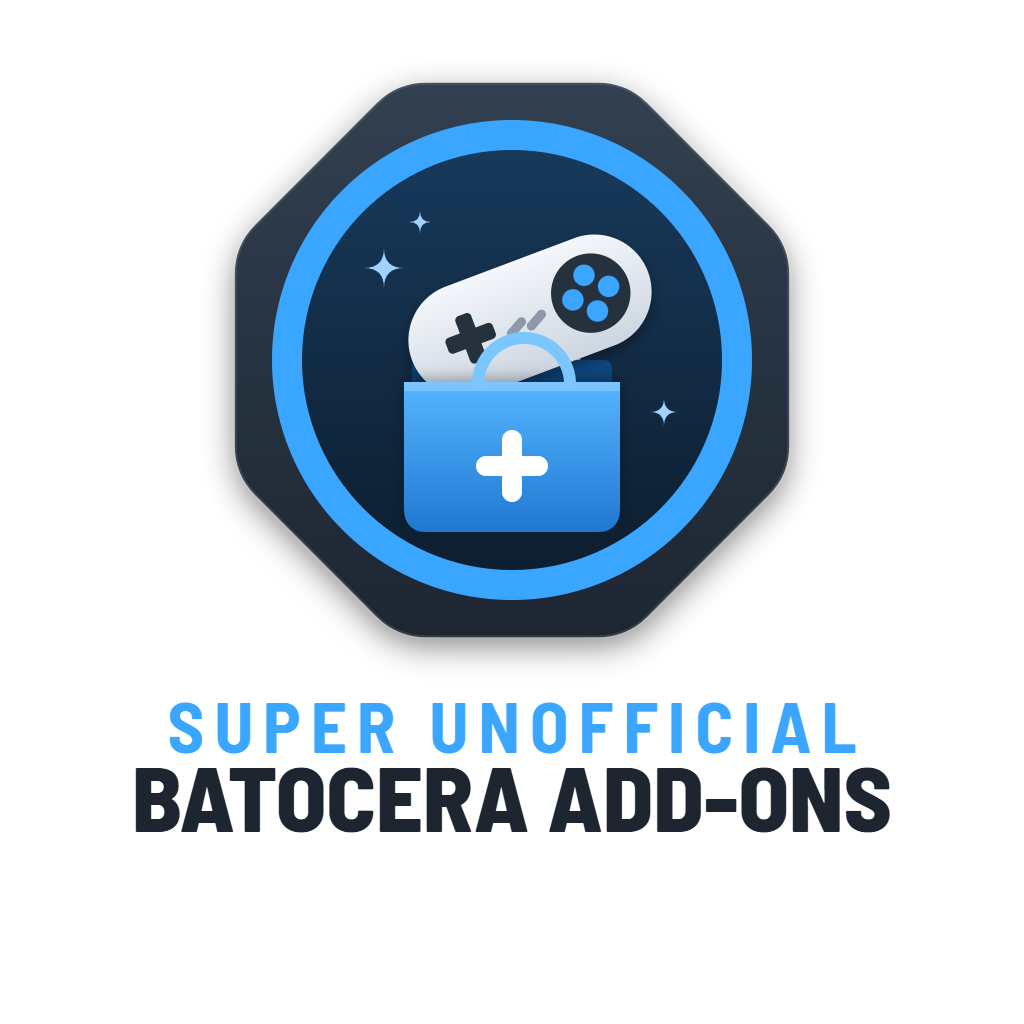
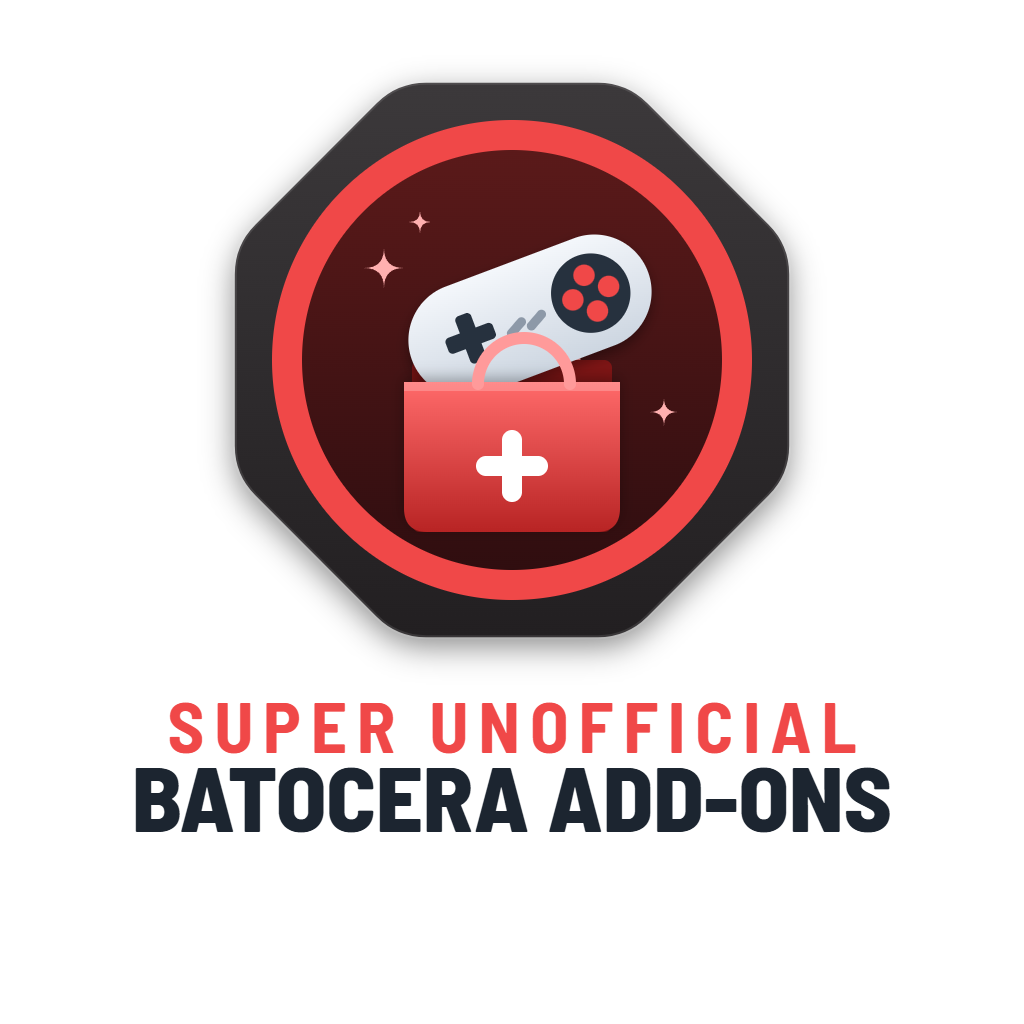
SBUA: red instead of blue
- GUI: the accent and selection colour (outlines, highlighted text, icons,
  search box, progress, the Search key), the "Queued" badge and the
  unselected tile fill are red. The app-initials palette keeps its mix of
  colours.
- Logos: ring, bag, handle, buttons, sparkles and "SUPER UNOFFICIAL" are
  red; the disc is dark red and the plate neutral charcoal.

Changed region(s): [[0.25, 0.0938, 0.75, 0.5938], [0.1562, 0.6875, 0.8438, 0.75]]

diff --git a/app/bua_installerarm64.py b/app/bua_installerarm64.py
@@ -756,10 +756,10 @@ UI_FONTS = load_console_fonts()
 BG = (10, 13, 18)
 CARD = (27, 35, 45)
 CARD_HI = (36, 48, 62)
-ACCENT = (58, 166, 255)
+ACCENT = (240, 72, 72)
 FG = (236, 242, 248)
 MUTED = (139, 152, 166)
-SELECT = (58, 166, 255)
+SELECT = (240, 72, 72)
 SUCCESS = (76, 205, 140)
 FOOTER_BG = (6, 8, 12)
 
@@ -2370,7 +2370,7 @@ def draw_app_details(surf, panel, key: str):
         chip = draw_chip(surf, t("installed"), f["small"], (chip_x, y), (196, 245, 218), (24, 82, 54))
         chip_x = chip.right + S(8)
     if any(k == key for k, _cmd in INSTALL_QUEUE):
-        chip = draw_chip(surf, t("queued"), f["small"], (chip_x, y), (205, 230, 255), (26, 70, 120))
+        chip = draw_chip(surf, t("queued"), f["small"], (chip_x, y), (255, 214, 214), (120, 26, 26))
         chip_x = chip.right + S(8)
     if SELECTED_APPS.get(key, False):
         badge_r = (f["small"].get_height() + S(8)) // 2
@@ -4012,7 +4012,7 @@ class QueueScreen(BaseScreen):
                 selected = i == self.idx
                 if selected:
                     rect = rect.inflate(S(8), S(8))
-                draw_tile(screen, rect, selected, radius=S(12), fill=ACCENT if selected else (30, 64, 104))
+                draw_tile(screen, rect, selected, radius=S(12), fill=ACCENT if selected else (104, 30, 30))
                 label = f"{t('start_install')} ({len(INSTALL_QUEUE)} {t('items_lowercase')})"
                 img = f["tile"].render(label, True, (255, 255, 255))
                 tri = S(14)

diff --git a/app/bua_installerx86.py b/app/bua_installerx86.py
@@ -749,10 +749,10 @@ UI_FONTS = load_console_fonts()
 BG = (10, 13, 18)
 CARD = (27, 35, 45)
 CARD_HI = (36, 48, 62)
-ACCENT = (58, 166, 255)
+ACCENT = (240, 72, 72)
 FG = (236, 242, 248)
 MUTED = (139, 152, 166)
-SELECT = (58, 166, 255)
+SELECT = (240, 72, 72)
 SUCCESS = (76, 205, 140)
 FOOTER_BG = (6, 8, 12)
 
@@ -2363,7 +2363,7 @@ def draw_app_details(surf, panel, key: str):
         chip = draw_chip(surf, t("installed"), f["small"], (chip_x, y), (196, 245, 218), (24, 82, 54))
         chip_x = chip.right + S(8)
     if any(k == key for k, _cmd in INSTALL_QUEUE):
-        chip = draw_chip(surf, t("queued"), f["small"], (chip_x, y), (205, 230, 255), (26, 70, 120))
+        chip = draw_chip(surf, t("queued"), f["small"], (chip_x, y), (255, 214, 214), (120, 26, 26))
         chip_x = chip.right + S(8)
     if SELECTED_APPS.get(key, False):
         badge_r = (f["small"].get_height() + S(8)) // 2
@@ -4269,7 +4269,7 @@ class QueueScreen(BaseScreen):
                 selected = i == self.idx
                 if selected:
                     rect = rect.inflate(S(8), S(8))
-                draw_tile(screen, rect, selected, radius=S(12), fill=ACCENT if selected else (30, 64, 104))
+                draw_tile(screen, rect, selected, radius=S(12), fill=ACCENT if selected else (104, 30, 30))
                 label = f"{t('start_install')} ({len(INSTALL_QUEUE)} {t('items_lowercase')})"
                 img = f["tile"].render(label, True, (255, 255, 255))
                 tri = S(14)
